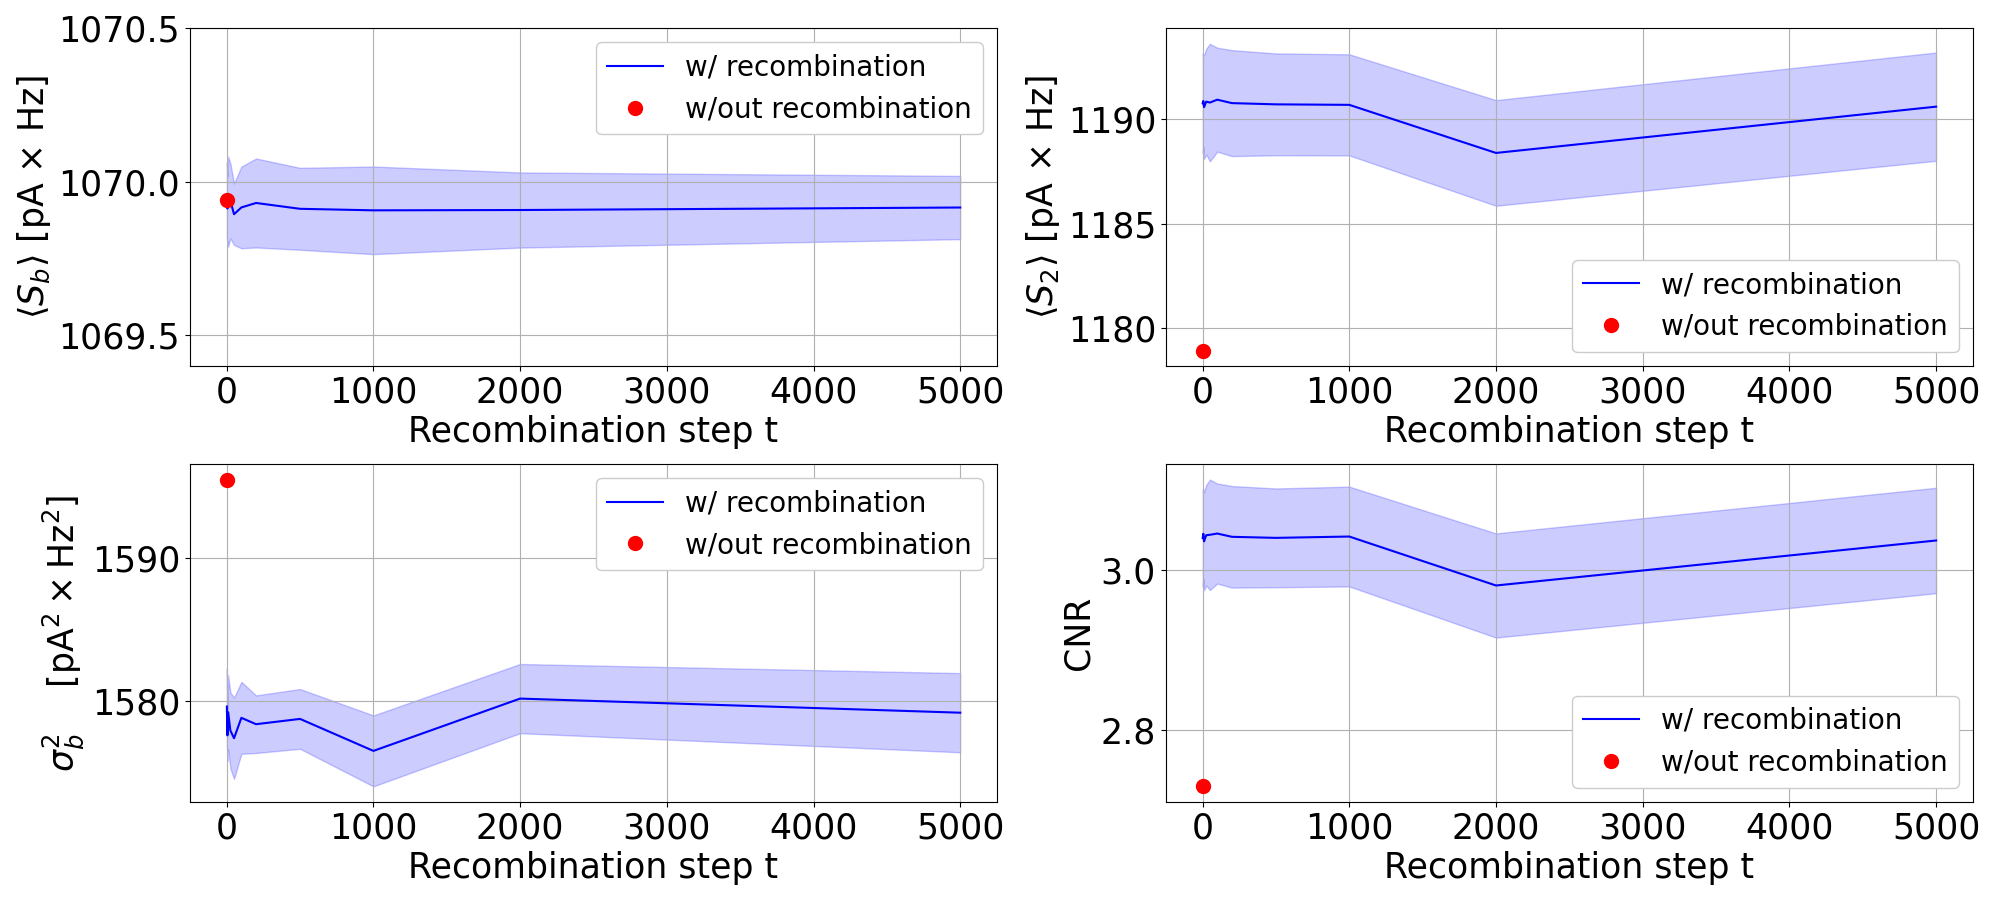
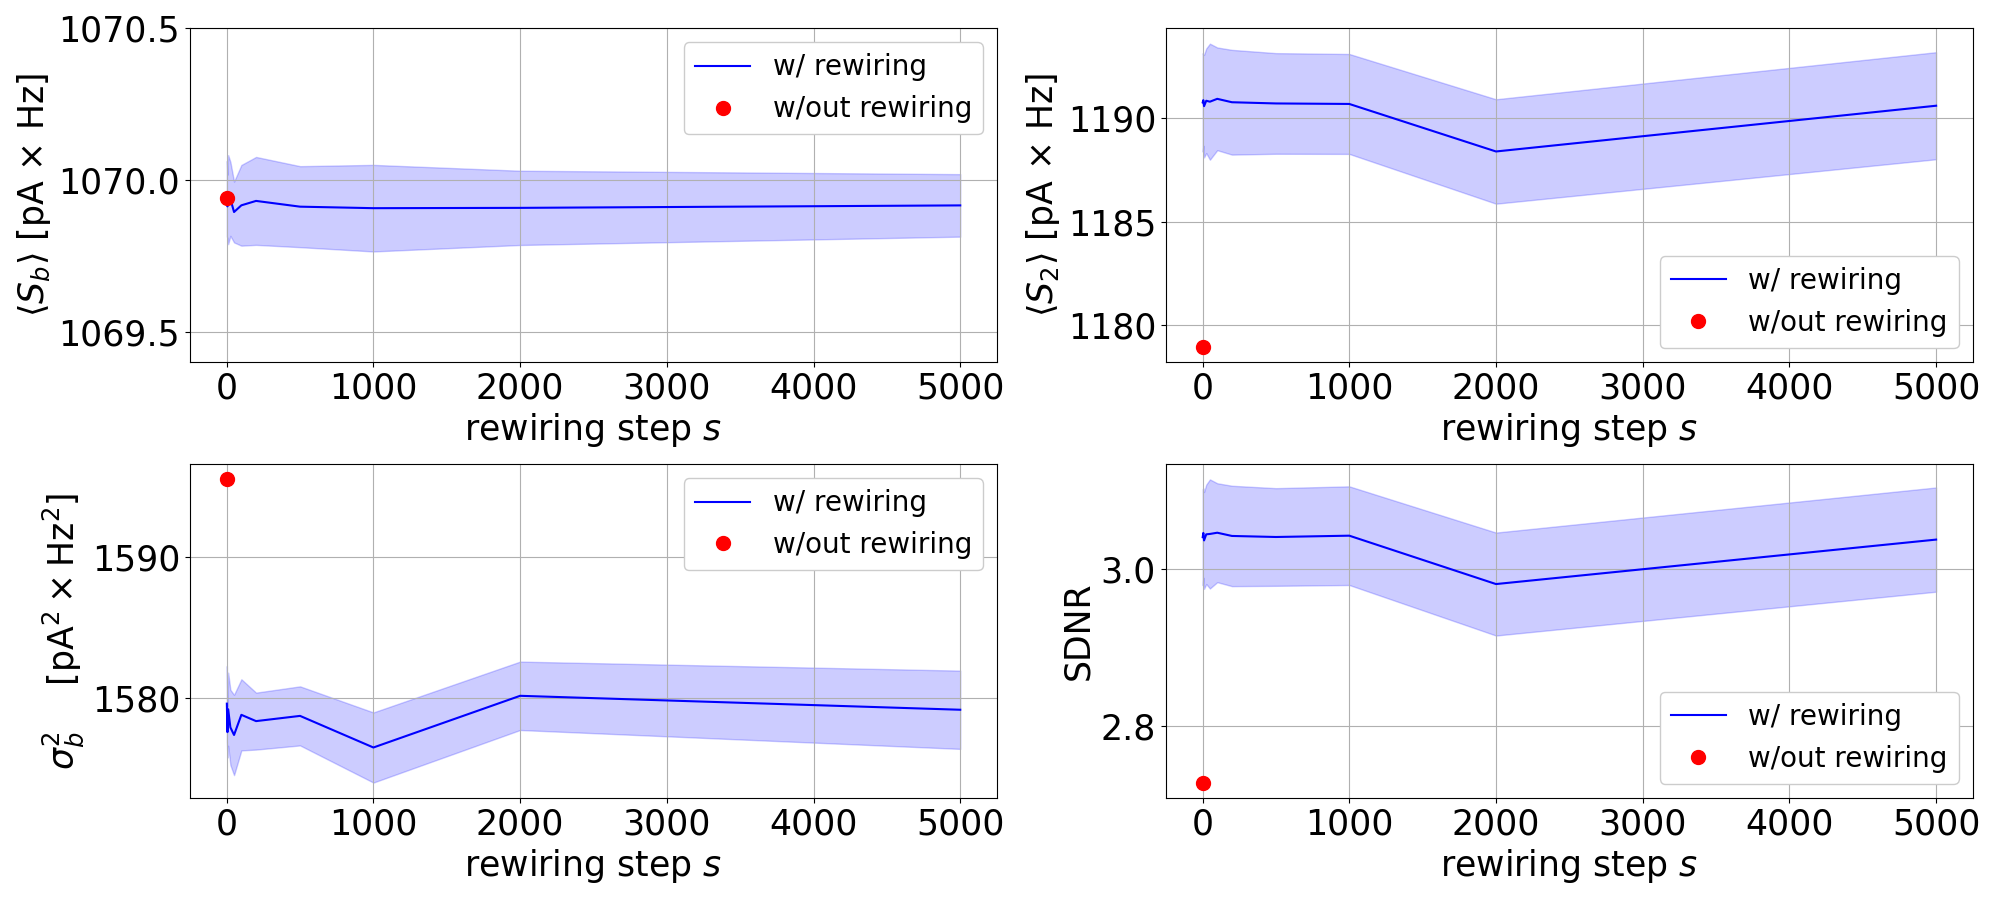
updated plots

diff --git a/plot_variable_rewiring.py b/plot_variable_rewiring.py
@@ -282,12 +282,12 @@ def plot_data(data, th_data):
     ax7 = axs[1,1]
 
     ax1.fill_between(data['t'][1:], data['Sb_av'][1:]-data['Sb_std'][1:], data['Sb_av'][1:]+data['Sb_std'][1:], color="blue", alpha=0.2)
-    ax1.plot(data['t'][1:], data['Sb_av'][1:], "-", color="blue", label="w/ recombination")
-    ax1.plot(data['t'][0], data['Sb_av'][0], "o", markersize=10, color="red", label="w/out recombination")
+    ax1.plot(data['t'][1:], data['Sb_av'][1:], "-", color="blue", label="w/ rewiring")
+    ax1.plot(data['t'][0], data['Sb_av'][0], "o", markersize=10, color="red", label="w/out rewiring")
     #ax1.plot(data['t'], th_data['Sb_th'], "--", color="red", label="Theory")
     ax1.legend(fontsize=legend_fs, framealpha=1.0)
     ax1.set_ylabel(r"$\langle S_b \rangle$ [pA $\times$ Hz]", fontsize=tick_fs)
-    ax1.set_xlabel(r"Recombination step t", fontsize=tick_fs)
+    ax1.set_xlabel(r"rewiring step $s$", fontsize=tick_fs)
     ax1.tick_params(labelsize=tick_fs)
     ax1.set_ylim(1069.4, 1070.5)
     ax1.ticklabel_format(style='plain', useOffset=False, axis='y') 
@@ -295,12 +295,12 @@ def plot_data(data, th_data):
     ax1.grid()
     
     ax3.fill_between(data['t'][1:], data['varSb_av'][1:]-data['varSb_std'][1:], data['varSb_av'][1:]+data['varSb_std'][1:], color="blue", alpha=0.2)
-    ax3.plot(data['t'][1:], data['varSb_av'][1:], "-", color="blue", label="w/ recombination")
-    ax3.plot(data['t'][0], data['varSb_av'][0], "o", markersize=10, color="red", label="w/out recombination")
+    ax3.plot(data['t'][1:], data['varSb_av'][1:], "-", color="blue", label="w/ rewiring")
+    ax3.plot(data['t'][0], data['varSb_av'][0], "o", markersize=10, color="red", label="w/out rewiring")
     #ax3.plot(data['t'], th_data['varSb_th'], "--", color="red", label="Theory")
     ax3.legend(title=r"$\sigma^2_b$", fontsize=legend_fs, title_fontsize=legend_fs, framealpha=1.0)
     ax3.set_ylabel(r"$\sigma^2_b$ $\quad [\mathrm{pA}^2 \times \mathrm{Hz}^2]$", fontsize=tick_fs)
-    ax3.set_xlabel(r"Recombination step t", fontsize=tick_fs)
+    ax3.set_xlabel(r"rewiring step $s$", fontsize=tick_fs)
     ax3.tick_params(labelsize=tick_fs)
     ax3.grid()
     #ax3.set_xticklabels([])
@@ -308,12 +308,12 @@ def plot_data(data, th_data):
 
 
     ax5.fill_between(data['t'][1:], data['S2_av'][1:]-data['S2_std'][1:], data['S2_av'][1:]+data['S2_std'][1:], color="blue", alpha=0.2)
-    ax5.plot(data['t'][1:], data['S2_av'][1:], "-", color="blue", label="w/ recombination")
-    ax5.plot(data['t'][0], data['S2_av'][0], "o", markersize=10, color="red", label="w/out recombination")
+    ax5.plot(data['t'][1:], data['S2_av'][1:], "-", color="blue", label="w/ rewiring")
+    ax5.plot(data['t'][0], data['S2_av'][0], "o", markersize=10, color="red", label="w/out rewiring")
     #ax5.plot(data['t'], th_data['S2_th'], "--", color="red", label="Theory")
     ax5.legend(title=r"$\langle S_2 \rangle$", fontsize=legend_fs, title_fontsize=legend_fs, framealpha=1.0)
     ax5.set_ylabel(r"$\langle S_2 \rangle$ [pA $\times$ Hz]", fontsize=tick_fs)
-    ax5.set_xlabel(r"Recombination step t", fontsize=tick_fs)
+    ax5.set_xlabel(r"rewiring step $s$", fontsize=tick_fs)
     ax5.tick_params(labelsize=tick_fs)
     ax5.grid()
     ax5.legend(fontsize=legend_fs, framealpha=1.0)
@@ -321,20 +321,20 @@ def plot_data(data, th_data):
 
 
     ax7.fill_between(data['t'][1:], data['CNR_av'][1:]-data['CNR_std'][1:], data['CNR_av'][1:]+data['CNR_std'][1:], color="blue", alpha=0.2)
-    ax7.plot(data['t'][1:], data['CNR_av'][1:], "-", color="blue", label="w/ recombination")
-    ax7.plot(data['t'][0], data['CNR_av'][0], "o", markersize=10, color="red", label="w/out recombination")
+    ax7.plot(data['t'][1:], data['CNR_av'][1:], "-", color="blue", label="w/ rewiring")
+    ax7.plot(data['t'][0], data['CNR_av'][0], "o", markersize=10, color="red", label="w/out rewiring")
     #ax7.plot(data['t'], np.abs(th_data['S2_th']-th_data['Sb_th'])/np.sqrt(th_data['varSb_th']), "--", color="red", label="Theory")
-    ax7.set_ylabel(r"CNR", fontsize=tick_fs)
-    ax7.set_xlabel(r"Recombination step t", fontsize=tick_fs)
+    ax7.set_ylabel(r"SDNR", fontsize=tick_fs)
+    ax7.set_xlabel(r"rewiring step $s$", fontsize=tick_fs)
     ax7.tick_params(labelsize=tick_fs)
     ax7.grid()
-    #ax7.legend(title=r"CNR", fontsize=legend_fs, title_fontsize=legend_fs, framealpha=1.0)
+    #ax7.legend(title=r"SDNR", fontsize=legend_fs, title_fontsize=legend_fs, framealpha=1.0)
     ax7.legend(fontsize=legend_fs, framealpha=1.0)
     #ax7.set_xticklabels([])
 
    
     #fig1.subplots_adjust(wspace=0.6)
-    #fig.suptitle(r'Different recombination step, $T=5000$', fontsize=25)
+    #fig.suptitle(r'Different rewiring step, $T=5000$', fontsize=25)
 
     plt.savefig("t_study.png")
 

diff --git a/plot_no_rew.py b/plot_no_rew.py
@@ -311,8 +311,8 @@ def plot_data(discr, ln,  ln_noise,  norew_noise):
     plt.figure(1)
     #ax1.set_title("Discrete rate model", fontsize=legend_fs)
     #ax1.fill_between(discr['T'], discr['Sb_av']-discr['Sb_std'], discr['Sb_av']+discr['Sb_std'], color="red", alpha=0.2)
-    ax1.plot(ln_noise['T'], ln_noise['Sb_av'], "-", color="blue", label="w/ recombination")
-    ax1.plot(norew_noise['T'], norew_noise['Sb_av'], "--", color="red", label="w/out recombination")
+    ax1.plot(ln_noise['T'], ln_noise['Sb_av'], "-", color="blue", label="w/ rewiring")
+    ax1.plot(norew_noise['T'], norew_noise['Sb_av'], "--", color="red", label="w/out rewiring")
     ax1.set_xlim(5000,100000)
     ax1.legend(fontsize=legend_fs, framealpha=1.0)
     #ax1.set_xlabel("T (training patterns)", fontsize=tick_fs)
@@ -349,8 +349,8 @@ def plot_data(discr, ln,  ln_noise,  norew_noise):
 
     #ax4.fill_between(ln['T'], ln['varSb_av']-ln['varSb_std'], ln['varSb_av']+ln['varSb_std'], color="blue", alpha=0.2)
     
-    ax3.plot(ln_noise['T'], ln_noise['varSb_av'], "-", color="blue", label="w/ recombination")
-    ax3.plot(norew_noise['T'], norew_noise['varSb_av'],"--", color="red", label="w/out recombination")
+    ax3.plot(ln_noise['T'], ln_noise['varSb_av'], "-", color="blue", label="w/ rewiring")
+    ax3.plot(norew_noise['T'], norew_noise['varSb_av'],"--", color="red", label="w/out rewiring")
     ax3.legend(fontsize=legend_fs, framealpha=1.0)
     ax3.set_ylabel(r"$\sigma^2_{b}$ [$pA^2 \times Hz^2$]", fontsize=tick_fs)
     ax3.tick_params(labelsize=tick_fs)
@@ -369,8 +369,8 @@ def plot_data(discr, ln,  ln_noise,  norew_noise):
     ax4.tick_params(labelsize=tick_fs)
     ax4.set_xscale('log')
     
-    ax5.plot(ln_noise['T'], ln_noise['S2_av'], "-", color="blue", label="w/ recombination")
-    ax5.plot(norew_noise['T'], norew_noise['S2_av'], "--", color="red", label="w/out recombination")
+    ax5.plot(ln_noise['T'], ln_noise['S2_av'], "-", color="blue", label="w/ rewiring")
+    ax5.plot(norew_noise['T'], norew_noise['S2_av'], "--", color="red", label="w/out rewiring")
     #ax5.set_xlabel("T (training patterns)", fontsize=tick_fs)
     ax5.set_ylabel(r"$\langle S_2 \rangle$ [pA $\times$ Hz]", fontsize=tick_fs)
     ax5.tick_params(labelsize=tick_fs)
@@ -390,11 +390,11 @@ def plot_data(discr, ln,  ln_noise,  norew_noise):
 
     CNR_rew=np.array(np.abs(ln_noise['S2_av']-ln_noise['Sb_av'])/np.sqrt(ln_noise['varSb_av']))
     CNR_norew=np.array(np.abs(norew_noise['S2_av']-norew_noise['Sb_av'])/np.sqrt(norew_noise['varSb_av']))
-    ax7.plot(ln_noise['T'], np.abs(ln_noise['S2_av']-ln_noise['Sb_av'])/np.sqrt(ln_noise['varSb_av']), "-", color="blue", label="w/ recombination")
-    ax7.plot(norew_noise['T'], np.abs(norew_noise['S2_av']-norew_noise['Sb_av'])/np.sqrt(norew_noise['varSb_av']), "--", color="red", label="w/out recombination")
+    ax7.plot(ln_noise['T'], np.abs(ln_noise['S2_av']-ln_noise['Sb_av'])/np.sqrt(ln_noise['varSb_av']), "-", color="blue", label="w/ rewiring")
+    ax7.plot(norew_noise['T'], np.abs(norew_noise['S2_av']-norew_noise['Sb_av'])/np.sqrt(norew_noise['varSb_av']), "--", color="red", label="w/out rewiring")
 
    # ax7.set_xlabel("T (training patterns)", fontsize=tick_fs)
-    ax7.set_ylabel(r"CNR", fontsize=tick_fs)
+    ax7.set_ylabel(r"SDNR", fontsize=tick_fs)
     ax7.tick_params(labelsize=tick_fs)
     ax7.set_xscale('log')
     ax7.legend(fontsize=legend_fs, framealpha=1.0)
@@ -405,7 +405,7 @@ def plot_data(discr, ln,  ln_noise,  norew_noise):
 
     ax8.plot(norew_noise['T'], abs((CNR_rew[2:22]-CNR_norew)/CNR_rew[2:22]*100), "-", color="green", label="Simulation")
   #  ax1.set_xlabel("T (training patterns)", fontsize=tick_fs)
-    ax8.set_ylabel(r"$\dfrac{CNR - CNR^{nr}}{CNR}\quad$[%] ", fontsize=tick_fs)
+    ax8.set_ylabel(r"$\dfrac{SDNR - SDNR^{nr}}{SDNR}\quad$[%] ", fontsize=tick_fs)
     ax8.set_xlabel('T training patterns', fontsize=tick_fs)
     ax8.tick_params(labelsize=tick_fs)
     ax8.set_xscale('log')

diff --git a/plot.py b/plot.py
@@ -361,11 +361,11 @@ def plot_data(discr, th_discr, ln, th_ln, ln_noise, th_ln_noise):
     ax7.plot(discr['T'], np.abs(discr['S2_av']-discr['Sb_av'])/np.sqrt(discr['varSb_av']), "-", color="blue", label="Simulation")
     ax7.plot(discr['T'], np.abs(th_discr['S2_th']-th_discr['Sb_th'])/np.sqrt(th_discr['varSb_th']), "--", color="red", label="Theory")
     ax7.set_xlabel("T training patterns", fontsize=tick_fs)
-    ax7.set_ylabel(r"CNR", fontsize=tick_fs)
+    ax7.set_ylabel(r"SDNR", fontsize=tick_fs)
     ax7.tick_params(labelsize=tick_fs)
     ax7.set_xscale('log')
     ax7.grid()
-    #ax5.legend(title=r"CNR", fontsize=legend_fs, title_fontsize=legend_fs, framealpha=1.0)
+    #ax5.legend(title=r"SDNR", fontsize=legend_fs, title_fontsize=legend_fs, framealpha=1.0)
 
 
     ax8.plot(ln['T'], np.abs(ln['S2_av']-ln['Sb_av'])/np.sqrt(ln['varSb_av']), "-", color="blue", label="Simulation")
@@ -375,11 +375,11 @@ def plot_data(discr, th_discr, ln, th_ln, ln_noise, th_ln_noise):
     ax8.plot(ln_noise['T'], np.abs(th_ln_noise['S2_th']-th_ln_noise['Sb_th'])/np.sqrt(th_ln_noise['varSb_th']), "--", color="orange", label="Theory - noise")
 
     ax8.set_xlabel("T training patterns", fontsize=tick_fs)
-    ax8.set_ylabel(r"CNR", fontsize=tick_fs)
+    ax8.set_ylabel(r"SDNR", fontsize=tick_fs)
     ax8.tick_params(labelsize=tick_fs)
     ax8.set_xscale('log')
     ax8.grid()
-    #ax8.legend(title=r"CNR", fontsize=legend_fs, title_fontsize=legend_fs, framealpha=1.0)
+    #ax8.legend(title=r"SDNR", fontsize=legend_fs, title_fontsize=legend_fs, framealpha=1.0)
 
 
     plt.savefig("discrete_vs_continuous.png")
@@ -443,10 +443,10 @@ def plot_data_luca(discr, th_discr, ln, th_ln, ln_noise, th_ln_noise):
     ax4.plot(discr['T'], np.abs(discr['S2_av']-discr['Sb_av'])/np.sqrt(discr['varSb_av']), "-", color="blue", label="Discrete rate")
     ax4.plot(ln['T'], np.abs(ln['S2_av']-ln['Sb_av'])/np.sqrt(ln['varSb_av']), "--", color="red", label="Continuous rate")
     ax4.set_xlabel("T training patterns", fontsize=tick_fs)
-    ax4.set_ylabel(r"CNR", fontsize=tick_fs)
+    ax4.set_ylabel(r"SDNR", fontsize=tick_fs)
     ax4.tick_params(labelsize=tick_fs)
     ax4.set_xscale('log')
-    #ax4.legend(title=r"CNR", fontsize=legend_fs, title_fontsize=legend_fs, framealpha=1.0)
+    #ax4.legend(title=r"SDNR", fontsize=legend_fs, title_fontsize=legend_fs, framealpha=1.0)
     ax4.legend(fontsize=legend_fs, framealpha=1.0)
 
 
